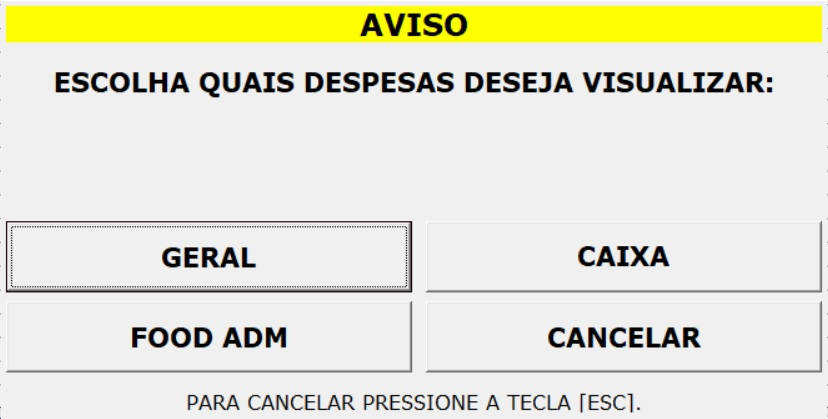
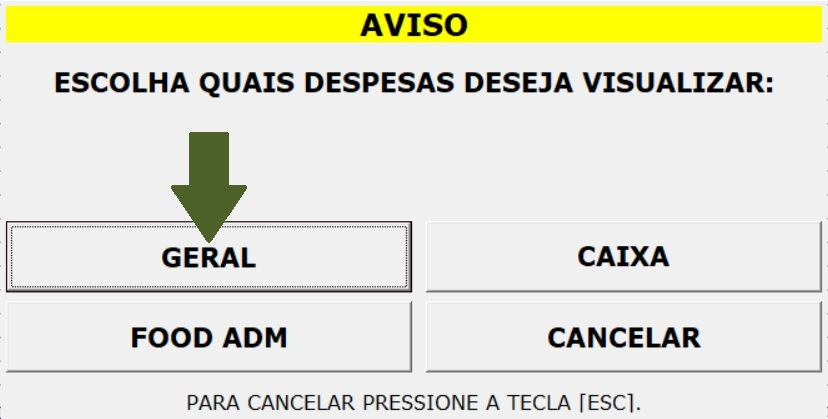
pequenas alteracoes admin

Changed region(s): [[0.2114, 0.3103, 0.3019, 0.5895]]

diff --git a/Adm/w.html b/Adm/w.html
@@ -27,15 +27,17 @@
 
         <h2 class="header">Alterando a data da busca</h2>
         <p>Aqui temos três maneiras de buscar por data:
-        <br>•	Clicando no calendário (retângulo azul): aqui você clica na data e depois clica em filtrar (flecha laranja)
-        <br>•	Clicar direto na data (retângulo verde) e digitar a data que desejar. Depois clicar em filtrar (flecha laranja)
-        <br>•	Clicar na flechas dos retângulos vermelhos: a da direita aumenta a data em 1 dia e a da esquerda diminui 
-            a data em 1 dia. Ao final clique em filtrar (flecha laranja)</p>
+        <br>•	Clicando no calendário (retângulo azul): aqui você clica na data e depois clica em filtrar 
+        (flecha laranja).
+        <br>•	Clicar direto na data (retângulo verde) e digitar a data que desejar. Depois clicar em filtrar 
+        (flecha laranja).
+        <br>•	Clicar nas flechas dos retângulos vermelhos: a da direita aumenta a data em 1 dia e a da esquerda 
+        diminui a data em 1 dia. Ao final clique em filtrar (flecha laranja).</p>
         <img src="../Usuário/adm 41.jpg" alt=""/>
 
         <h2 class="header">Filtrando por opções de exibição</h2>
         <p>Ao clicar no local da flecha verde aparecem as opções de filtro: "1-TODOS", 
-            "2-ENTRADAS" e "3-SAÍDAS". No nosso exemplo vamos clicar em "2-ENTRADAS" (flecha verdemelha).</p>
+            "2-ENTRADAS" e "3-SAÍDAS". No nosso exemplo vamos clicar em "2-ENTRADAS" (flecha vermelha).</p>
         <img src="../Usuário/adm 39.jpg" alt=""/>
         <p>A tela a seguir irá aparecer. Nela estão todas as entradas realizadas (retângulo vermelho) na data 
             do retângulo verde. O valor total das entradas pode ser visto no retângulo azul:</p>
@@ -43,8 +45,7 @@
 
         
         <h2 class="header">Entrada</h2>
-        <p>Ao clicar no local da flecha verde aparecem as opções de filtro: "1-TODOS", 
-            "2-ENTRADAS" e "3-SAÍDAS". No nosso exemplo vamos clicar em "2-ENTRADAS" (flecha verde).</p>
+        <p>Clique em "Entrada" (flecha verde).</p>
         <img src="../Usuário/adm 43.jpg" alt=""/>
         <p>Agora preencha os campos nos retângulos vermelhos: "Valor" e "Descrição". Não se esqueça de 
             conferir a data (retângulo verde)!
@@ -54,19 +55,19 @@
             no meio do movimento diário.</p>
         <img src="../Usuário/adm 54.jpg" alt=""/>
         <p>Agora o lançamento aparecerá na tela ao fundo e a tela para lançar novas entradas aparecerá. 
-            Para sair dela clique em "Cancelar" (flecha vermelha)</p>
+            Para sair dela clique em "Cancelar" (flecha vermelha).</p>
         <img src="../Usuário/adm 55.jpg" alt=""/>
 
         <h2 class="header">Saída</h2>
-        <p>Ao clicar no local da flecha verde aparecem as opções de filtro: "1-TODOS", 
-            "2-ENTRADAS" e "3-SAÍDAS". No nosso exemplo vamos clicar em "2-ENTRADAS" (flecha vermelha).</p>
+        <p>Clique em "Saída" (flecha verde).</p>
         <img src="../Usuário/adm 44.jpg" alt=""/>
         <p>A seguinte tela irá abrir. Nela precisamos preencher todos os campos nos retângulos vermelhos: 
             "Valor", "Descrição", "Fornecedor [F3]" e "Despesa/Tipo de Saída [F3]". Agora nos retângulos 
             verdes temos os itens que podem ser preenchidos: "N° Cheque:", "CHEQUE PRÉ-DATADO" e "CHEQUE 
             CANCELADO".</p>
         <img src="../Usuário/adm 56.jpg" alt=""/>
-        <p>Observe o exemplo de preenchimento abaixo. Agora clique em "Concluir" (flecha verde).</p>
+        <p>Observe o exemplo de preenchimento abaixo. Quando terminar de preencher as informações clique 
+            em "Concluir" (flecha verde).</p>
         <img src="../Usuário/adm 57.jpg" alt=""/>
         
         <h2 class="header">Alteração</h2>
@@ -115,7 +116,8 @@
         <h2 class="header">Extrato</h2>
         <p>Para tirar o extrato, clique em "Extrato" (flecha verde).</p>
         <img src="../Usuário/adm 68.jpg" alt=""/>
-        <p>A tela a seguira irá aparecer. Nela você pode ver o extrato com todas as operações do dia.</p>
+        <p>A tela a seguira irá aparecer. Nela você pode ver o extrato com as operações do dia ou intervalo 
+            de dais selecionado.</p>
         <img src="../Usuário/adm 69.jpg" alt=""/>
         
         <h2 class="header">Relatório Despesas</h2>
@@ -123,17 +125,17 @@
         <img src="../Usuário/adm 50.jpg" alt=""/>
         <p>A tela a sgeuir irá aparecer.</p>
         <img src="../Usuário/adm 70.jpg" alt=""/>
-        <p>Para comrpeender melhor o que faz cada botão, veja a tabela abaixo:</p>
+        <p>Veja a tabela abaixo para compreender o que faz cada botão:</p>
         <img src="../Usuário/tabela admin 1.jpg" alt=""/>
         <h4 class="header">Geral</h4>
         <p>Para ter acesso a todas as despesas do período clique em Geral (flecha verde):</p>
         <img src="../Usuário/adm 70.jpg" alt=""/>
-        <p>Uma nova tela com as despesas do período irá aparecer:</p>
+        <p>Irá aparecer uma nova tela com as despesas do período:</p>
         <img src="../Usuário/geral.jpg" alt=""/>
         <h4 class="header">Caixa</h4>
         <p>Para ter acesso as despesas do período lançadas pelo caixa clique em Caixa (flecha verde):</p>
         <img src="../Usuário/adm 72.jpg" alt=""/>
-        <p>Uma nova tela com as despesas do período irá aparecer:</p>
+        <p>Irá aparecer uma nova tela com as despesas do período:</p>
         <img src="../Usuário/adm 74.jpg" alt=""/>
         <p>Um exemplo de outro dia com lançamento de despesas pelo caixa está abaixo. Os lançamentos 
             que aparecem abaixo também apareceriam ao clicar em "GERAL".</p>
@@ -141,7 +143,7 @@
         <h4 class="header">Food Admin</h4>
         <p>Para ter acesso as despesas lançadas pelo administrativo no período clique em Food Adm (flecha verde):</p>
         <img src="../Usuário/adm 73.jpg" alt=""/>
-        <p>Uma nova tela com as despesas do período irá aparecer:</p>
+        <p>Irá aparecer uma nova tela com as despesas do período:</p>
         <img src="../Usuário/food_adm.jpg" alt=""/>
         <h4 class="header">Cancelar</h4>
         <p>Para voltar a tela de movimentações de caixa clique em "CANCELAR":</p>
